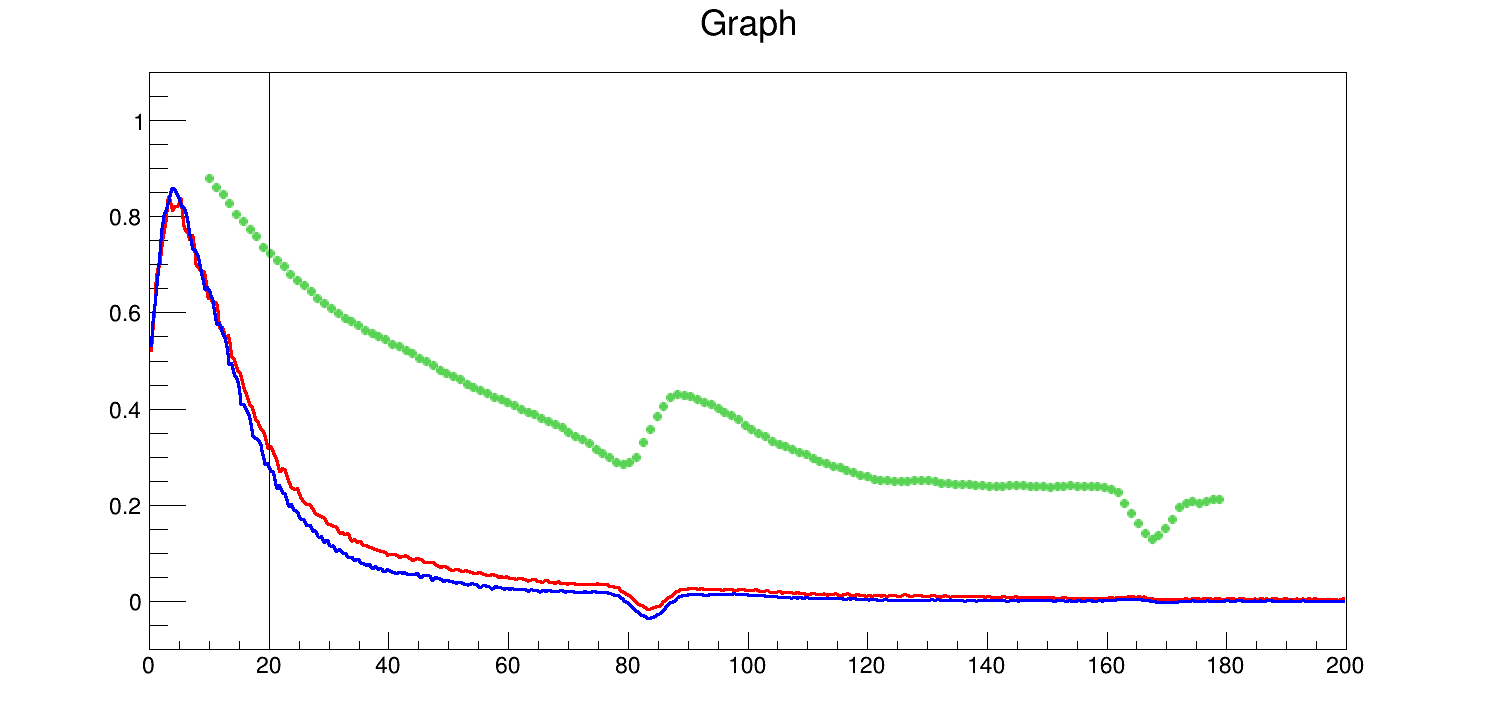
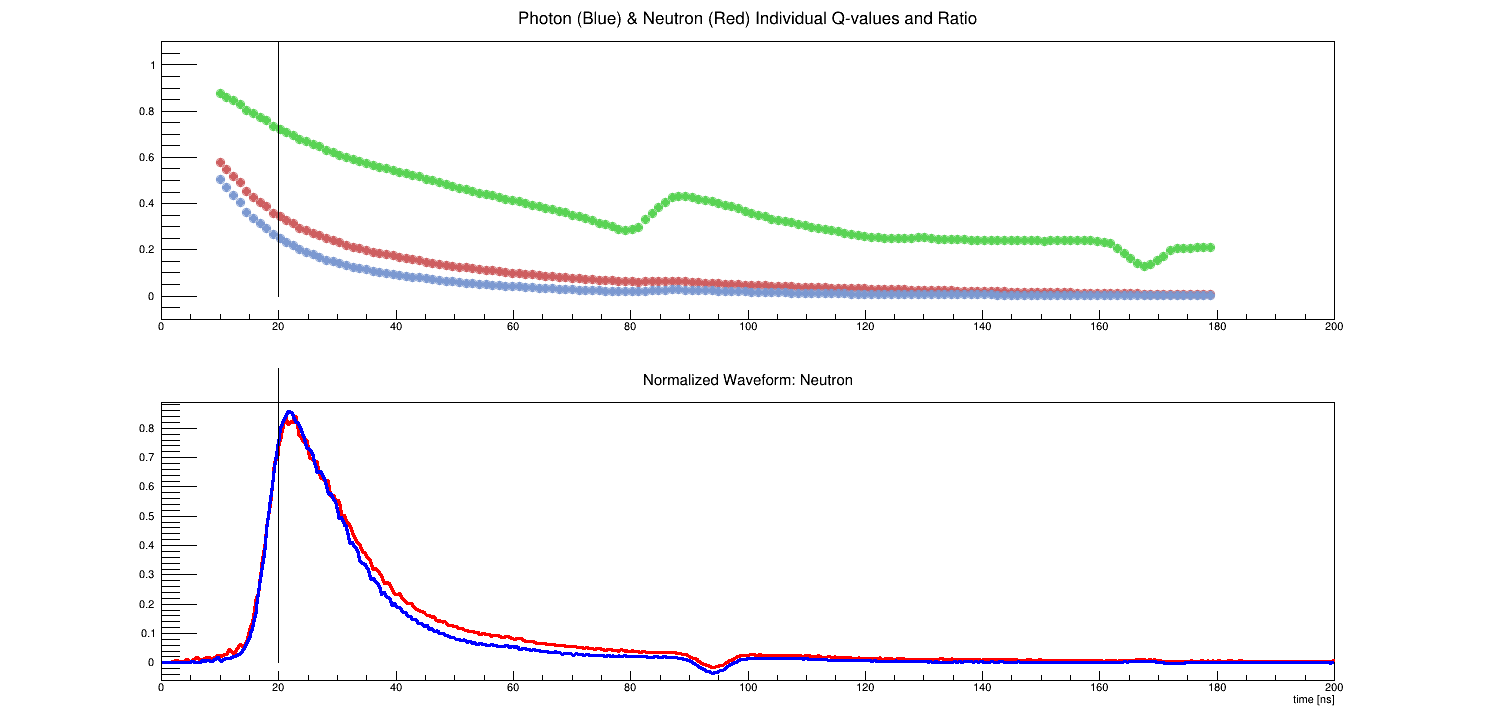
Worked with Brian to improve the plots

diff --git a/analysis/avgwf_vary_tail.cpp b/analysis/avgwf_vary_tail.cpp
@@ -170,7 +170,8 @@ void fit_func(TProfile* plot, TF1* func, int n_par, double* par_init, double* pa
 }
 
 void calculateQVals(double tailStart, TProfile* avgNeutron, TProfile* avgPhoton,
-					double &neutronQVal, double &photonQVal, double &ratioQVal);
+					double &neutronQVal, double &photonQVal, 
+					double &ratioQVal, double &diffQVal);
 					  
 int main(int argc, char **argv){
 	cout << "Reading in the data and creating the trees" << endl;
@@ -261,7 +262,8 @@ int main(int argc, char **argv){
 	double tailStart,
 		   neutronQVal,
 		   photonQVal,
-		   photonNeutronQValRatio;
+		   photonNeutronQValRatio,
+		   photonNeutronQValDiff;
 		   
 	TFile* variedTailFile = new TFile((dataFolderPath + dataFileName + "_varied_tail_qvals.root").c_str(), "RECREATE");
 	
@@ -270,10 +272,12 @@ int main(int argc, char **argv){
 	qValTree->Branch("neutronQVal", &neutronQVal);
 	qValTree->Branch("photonQVal", &photonQVal);
 	qValTree->Branch("ratioQVal", &photonNeutronQValRatio);
+	qValTree->Branch("diffQVal", &photonNeutronQValDiff);
 	
 	for(tailStart = minTailStart; tailStart <= maxTailStart; tailStart += stepSize){
 		calculateQVals(tailStart, avg_n, avg_p,
-					   neutronQVal, photonQVal, photonNeutronQValRatio);
+					   neutronQVal, photonQVal, 
+					   photonNeutronQValRatio, photonNeutronQValDiff);
 		qValTree->Fill();
 	}
 	qValTree->Write();
@@ -283,46 +287,76 @@ int main(int argc, char **argv){
 	TFile* readFile=new TFile((dataFolderPath + dataFileName+"_varied_tail_qvals.root").c_str(), "READ");
 	TTree* readTree=(TTree*)readFile->Get((dataFileName + "_varied_tail_qvals").c_str());
 
-	double tempStart,
-		   tempRatio,
-		   tailStarts[numSteps], 
-		   photonNeutronQValRatios[numSteps];
-	readTree->SetBranchAddress("tailStart", &tempStart);
-	readTree->SetBranchAddress("ratioQVal", &tempRatio);
+	double tailStarts[numSteps], 
+		   neutronQVals[numSteps],
+		   photonQVals[numSteps],
+		   photonNeutronQValRatios[numSteps],
+		   photonNeutronQValDiffs[numSteps];
+	
 	
 	for(int i =0; i <= numSteps; i++){
+		readTree->SetBranchAddress("tailStart", tailStarts + i);
+		readTree->SetBranchAddress("neutronQVal", neutronQVals + i);
+		readTree->SetBranchAddress("photonQVal", photonQVals + i);
+		readTree->SetBranchAddress("ratioQVal", photonNeutronQValRatios + i);
+		readTree->SetBranchAddress("diffQVal", photonNeutronQValDiffs + i);
+		
 		readTree->GetEntry(i);
-		tailStarts[i] = tempStart;
-		photonNeutronQValRatios[i] = tempRatio;
 	}
 	
-	TCanvas* c0=new TCanvas("0", "", 1500, 750);
+	TCanvas* c0=new TCanvas("0", "", 600, 500);
+	c0->Divide(1,2);
 	
-	TGraph* ratioPlot = new TGraph(numSteps, tailStarts, photonNeutronQValRatios);
-	ratioPlot->GetXaxis()->SetLimits(0, 200);
-	ratioPlot->SetMinimum(-.1);
-	ratioPlot->SetMaximum(1.1);
-	ratioPlot->SetMarkerStyle(8);
-	ratioPlot->SetMarkerColor(8);
-	ratioPlot->Draw("AP");
+	c0->cd(1);
+	TGraph* neutronPlot = new TGraph(numSteps, tailStarts, neutronQVals);
+	neutronPlot->SetTitle("Photon (Blue) & Neutron (Red) Individual Q-values and Difference");
+	neutronPlot->GetXaxis()->SetLimits(0, 200);
+	neutronPlot->SetMinimum(0);
+	neutronPlot->SetMaximum(.6);
+	neutronPlot->SetMarkerStyle(24);
+	neutronPlot->SetMarkerSize(.5);
+	neutronPlot->SetMarkerColor(2);
+	neutronPlot->SetLineColor(2);
+	neutronPlot->Draw("Al");
 	
+	TGraph* photonPlot = new TGraph(numSteps, tailStarts, photonQVals);
+	photonPlot->SetMarkerStyle(24);
+	photonPlot->SetMarkerColor(4);
+	photonPlot->SetMarkerSize(.5);
+	photonPlot->SetLineColor(4);
+	photonPlot->Draw("l");
+	
+	TGraph* ratioPlot = new TGraph(numSteps, tailStarts, photonNeutronQValDiffs);
+	ratioPlot->SetMarkerStyle(24);
+	ratioPlot->SetMarkerColor(3);
+	ratioPlot->SetMarkerSize(.5);
+	ratioPlot->SetLineColor(3);
+	ratioPlot->Draw("l");
+	
+	TLine* line_top =new TLine(20,0,20,1.1);
+	line_top->SetLineColor(kBlack);
+	line_top->Draw("SAME");
+		
+	c0->cd(2);
 	avg_n->SetLineColor(kRed);
 	avg_p->SetLineColor(kBlue);
 	avg_n->SetLineWidth(3);
 	avg_p->SetLineWidth(3);
 	avg_n->SetStats(false);
 	avg_p->SetStats(false);
-	avg_n->Draw("A HIST SAME C");
+	avg_n->GetXaxis()->SetLimits(0, 200);
+	avg_p->GetXaxis()->SetLimits(0, 200);
+	avg_n->Draw("HIST C");
 	avg_p->Draw("A HIST SAME C");
 	
-	TLine* line=new TLine(20,-.1,20,1.1);
-	line->SetLineColor(kBlack);
-	line->Draw("SAME");
+	TLine* line_bottom =new TLine(20,0,20,1.1);
+	line_bottom->SetLineColor(kBlack);
+	line_bottom->Draw("SAME");
 	
 	
 	c0->Modified();
 	c0->Update();
-	c0->SaveAs((dataFolderPath + dataFileName + "_varied_qvals.png").c_str(), "png");
+	c0->SaveAs((dataFolderPath + dataFileName + "_varied_qvals_DIFFERENCE.png").c_str(), "png");
 	
 	par_file->Close();
 	raw_file->Close();
@@ -330,7 +364,7 @@ int main(int argc, char **argv){
 }
 
 void calculateQVals(double tailStart, TProfile* avgNeutron, TProfile* avgPhoton,
-					double &neutronQVal, double &photonQVal, double &ratioQVal){
+					double &neutronQVal, double &photonQVal, double &ratioQVal, double &diffQVal){
 						  
 	int tail_start_bin=avgNeutron->FindBin(tailStart);
 	double a_main_n=0.,
@@ -352,5 +386,6 @@ void calculateQVals(double tailStart, TProfile* avgNeutron, TProfile* avgPhoton,
 	neutronQVal = neutronCurrentQVal;
 	photonQVal  = photonCurrentQVal;
 	ratioQVal   = photonCurrentQVal / neutronCurrentQVal;
-						  
+	diffQVal = abs(photonCurrentQVal - neutronCurrentQVal);
+							  
 }
